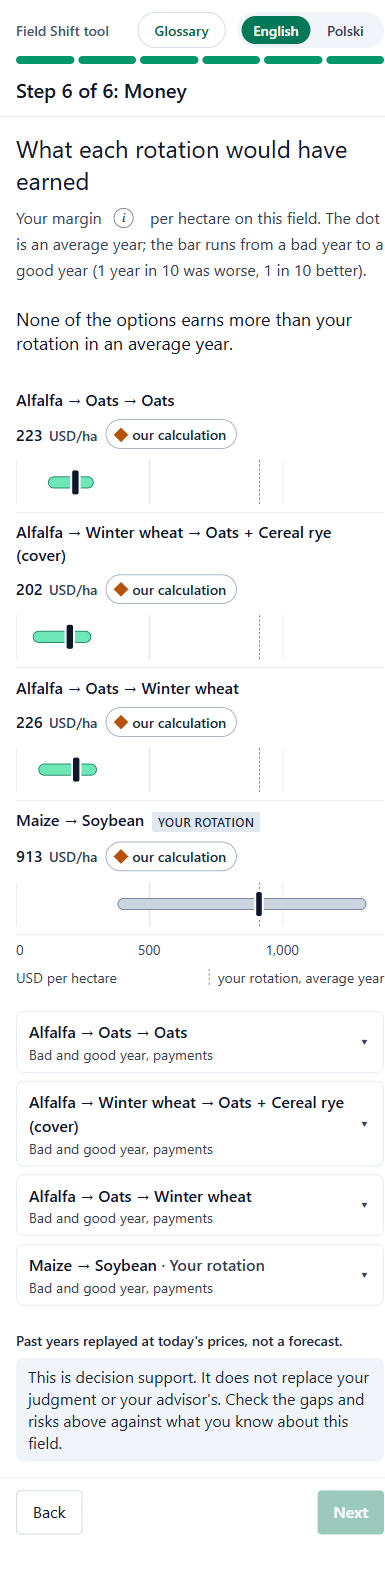
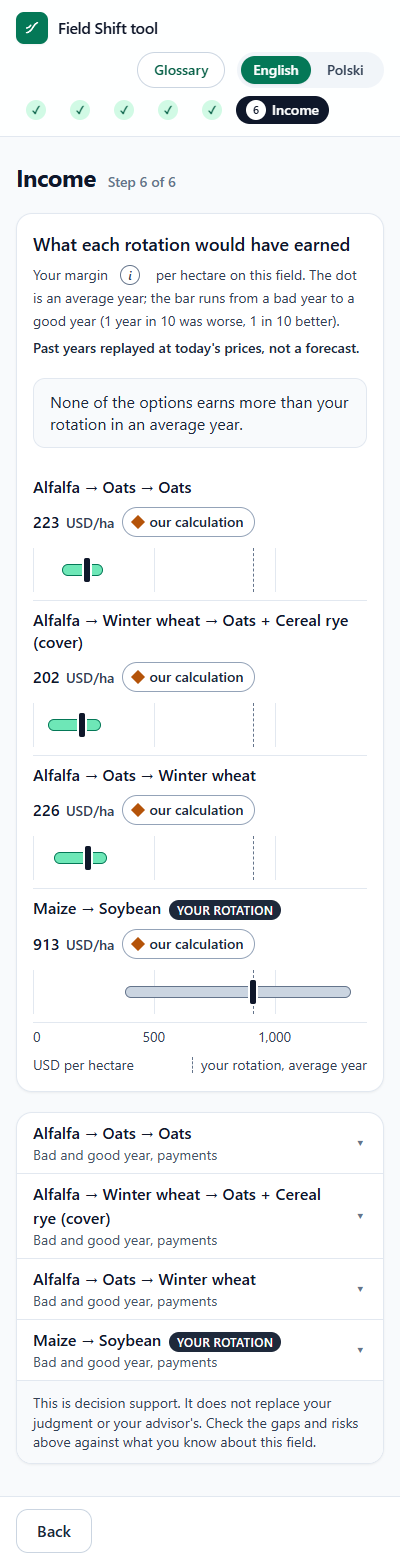
O2-B6 (O3): step 6 in the new frontend style (panels and fold rows as on step 5)
Main got the redesign (#177) and step 5 as tiles (#181), so step 6 now uses the
same white panels, fold rows and current-rotation badge, and the screenshots
are retaken on that layout.

diff --git a/src/steps/money/MoneyStep.tsx b/src/steps/money/MoneyStep.tsx
@@ -32,7 +32,11 @@ function Headline({ rows, datasets }: { rows: MoneyRow[]; datasets: Dataset[] })
   if (!current || options.length === 0) return null;
   const best = options.reduce((a, b) => (b.mean! > a.mean! ? b : a));
   if (best.mean! <= current.mean!) {
-    return <p className="text-lg leading-snug text-slate-900">{t('steps.money.headlineNone')}</p>;
+    return (
+      <p className="rounded-xl border border-slate-200 bg-slate-50 px-4 py-3 text-base leading-snug text-slate-800">
+        {t('steps.money.headlineNone')}
+      </p>
+    );
   }
   const diff: Sourced = {
     value: best.mean! - current.mean!,
@@ -42,7 +46,10 @@ function Headline({ rows, datasets }: { rows: MoneyRow[]; datasets: Dataset[] })
     retrievedAt: best.margin!.retrievedAt,
   };
   return (
-    <p data-testid="money-headline" className="text-lg leading-snug text-slate-900">
+    <p
+      data-testid="money-headline"
+      className="rounded-xl border border-emerald-200 bg-emerald-50 px-4 py-3 text-base leading-relaxed text-emerald-950"
+    >
       <Template
         code="steps.money.headline"
         parts={{
@@ -56,20 +63,27 @@ function Headline({ rows, datasets }: { rows: MoneyRow[]; datasets: Dataset[] })
 
 function Details({ row, datasets }: { row: MoneyRow; datasets: Dataset[] }) {
   return (
-    <details data-testid="money-details" className="group rounded-lg border border-slate-200 bg-white">
-      <summary className="flex min-h-11 cursor-pointer list-none items-center justify-between gap-3 px-3 py-2 focus:outline-none focus-visible:ring-2 focus-visible:ring-emerald-600">
+    <details data-testid="money-details" className="group border-t border-slate-200 first:border-t-0">
+      <summary className="flex min-h-12 cursor-pointer list-none items-center justify-between gap-3 px-4 py-2 hover:bg-slate-50 focus-visible:outline focus-visible:outline-2 focus-visible:-outline-offset-2 focus-visible:outline-emerald-700 sm:px-5 [&::-webkit-details-marker]:hidden">
         <span className="grid">
           <span className="text-base font-medium text-slate-900">
             {row.title}
-            {row.isCurrent ? <span className="text-slate-700"> · {t('steps.money.current')}</span> : null}
+            {row.isCurrent ? (
+              <span className="ml-2 inline-block rounded-full bg-slate-800 px-2 py-0.5 align-middle text-xs font-semibold uppercase tracking-wide text-white">
+                {t('steps.money.current')}
+              </span>
+            ) : null}
           </span>
-          <span className="text-sm text-slate-700">{t('steps.money.details')}</span>
+          <span className="text-sm text-slate-600">{t('steps.money.details')}</span>
         </span>
-        <span aria-hidden="true" className="text-slate-700 transition-transform duration-150 group-open:rotate-180">
+        <span
+          aria-hidden="true"
+          className="text-slate-500 transition-transform group-open:rotate-180 motion-reduce:transition-none"
+        >
           ▾
         </span>
       </summary>
-      <div className="grid gap-3 border-t border-slate-200 px-3 py-3">
+      <div className="grid items-start gap-3 px-4 pb-4 sm:px-5 lg:grid-cols-2 lg:gap-6">
         {row.status === 'ready' && row.money ? (
           <>
             <Margins m={row.money.marginPerHa} datasets={datasets} />
@@ -134,34 +148,43 @@ export function MoneyStep() {
   const anyReady = rows.some((r) => r.status === 'ready');
 
   return (
-    <div className="grid gap-6">
-      <div className="grid gap-2">
-        <h2 className="text-2xl text-slate-900">{t('steps.money.title')}</h2>
-        <p data-testid="money-intro" className="text-base leading-relaxed text-slate-700">
-          <TermText code="steps.money.intro" terms={{ margin: 'margin' }} />
-        </p>
-      </div>
+    <div className="grid gap-5">
+      <section
+        aria-labelledby="money-title"
+        className="grid gap-5 rounded-2xl border border-slate-200 bg-white p-4 shadow-sm sm:p-5"
+      >
+        <div className="grid gap-1.5">
+          <h2 id="money-title" className="text-lg font-semibold text-slate-900">
+            {t('steps.money.title')}
+          </h2>
+          <p data-testid="money-intro" className="max-w-3xl text-sm leading-relaxed text-slate-700">
+            <TermText code="steps.money.intro" terms={{ margin: 'margin' }} />
+          </p>
+          <p className="text-sm font-medium text-slate-800">{t('steps.rotations.income.notForecast')}</p>
+        </div>
 
-      {anyReady ? (
-        <Headline rows={rows} datasets={data.datasets} />
-      ) : (
-        <p role="status" className="rounded-md bg-amber-50 px-3 py-2 text-base text-amber-900">
-          {t('steps.money.noneReady')}
-        </p>
-      )}
+        {anyReady ? (
+          <Headline rows={rows} datasets={data.datasets} />
+        ) : (
+          <p
+            role="status"
+            className="rounded-xl border border-amber-200 bg-amber-50/60 px-4 py-3 text-base text-amber-900"
+          >
+            {t('steps.money.noneReady')}
+          </p>
+        )}
 
-      <MarginChart rows={rows} scale={scale} datasets={data.datasets} />
+        <MarginChart rows={rows} scale={scale} datasets={data.datasets} />
+      </section>
 
-      <div className="grid gap-2">
+      <section className="overflow-hidden rounded-2xl border border-slate-200 bg-white shadow-sm">
         {rows.map((row) => (
           <Details key={row.id} row={row} datasets={data.datasets} />
         ))}
-      </div>
-
-      <div className="grid gap-2">
-        <p className="text-sm font-medium text-slate-800">{t('steps.rotations.income.notForecast')}</p>
-        <p className="rounded-lg bg-slate-100 px-3 py-2 text-base leading-snug text-slate-800">{t('app.support')}</p>
-      </div>
+        <p className="border-t border-slate-200 bg-slate-50 px-4 py-3 text-sm leading-snug text-slate-700 sm:px-5">
+          {t('app.support')}
+        </p>
+      </section>
     </div>
   );
 }

diff --git a/src/steps/money/MarginChart.tsx b/src/steps/money/MarginChart.tsx
@@ -115,13 +115,13 @@ export function MarginChart({ rows, scale, datasets }: { rows: MoneyRow[]; scale
             key={row.id}
             role="group"
             aria-label={row.title}
-            className="grid gap-x-4 gap-y-1 border-b border-slate-200 py-2 last:border-b-0 sm:grid-cols-[minmax(0,15rem)_minmax(0,1fr)] sm:items-center"
+            className="grid gap-x-4 gap-y-1 border-b border-slate-200 py-2 last:border-b-0 sm:grid-cols-[minmax(0,15rem)_minmax(0,1fr)] lg:grid-cols-[minmax(0,20rem)_minmax(0,1fr)] sm:items-center"
           >
             <div className="flex flex-wrap items-baseline justify-between gap-x-3 gap-y-0.5 sm:flex-col sm:items-start sm:justify-start">
               <span className="min-w-0 text-base font-medium leading-snug text-slate-900">
                 <span>{row.title}</span>
                 {row.isCurrent ? (
-                  <span className="ml-2 inline-block rounded-sm bg-slate-200 px-1.5 py-0.5 align-middle text-xs font-semibold uppercase tracking-wide text-slate-800">
+                  <span className="ml-2 inline-block rounded-full bg-slate-800 px-2 py-0.5 align-middle text-xs font-semibold uppercase tracking-wide text-white">
                     {t('steps.money.current')}
                   </span>
                 ) : null}
@@ -150,7 +150,7 @@ export function MarginChart({ rows, scale, datasets }: { rows: MoneyRow[]; scale
         ))}
 
         {lastTick ? (
-          <div className="grid gap-x-4 pt-1 sm:grid-cols-[minmax(0,15rem)_minmax(0,1fr)]">
+          <div className="grid gap-x-4 pt-1 sm:grid-cols-[minmax(0,15rem)_minmax(0,1fr)] lg:grid-cols-[minmax(0,20rem)_minmax(0,1fr)]">
             <span className="hidden sm:block" />
             <div className="grid gap-2">
               <div aria-hidden="true" className="relative h-5">
